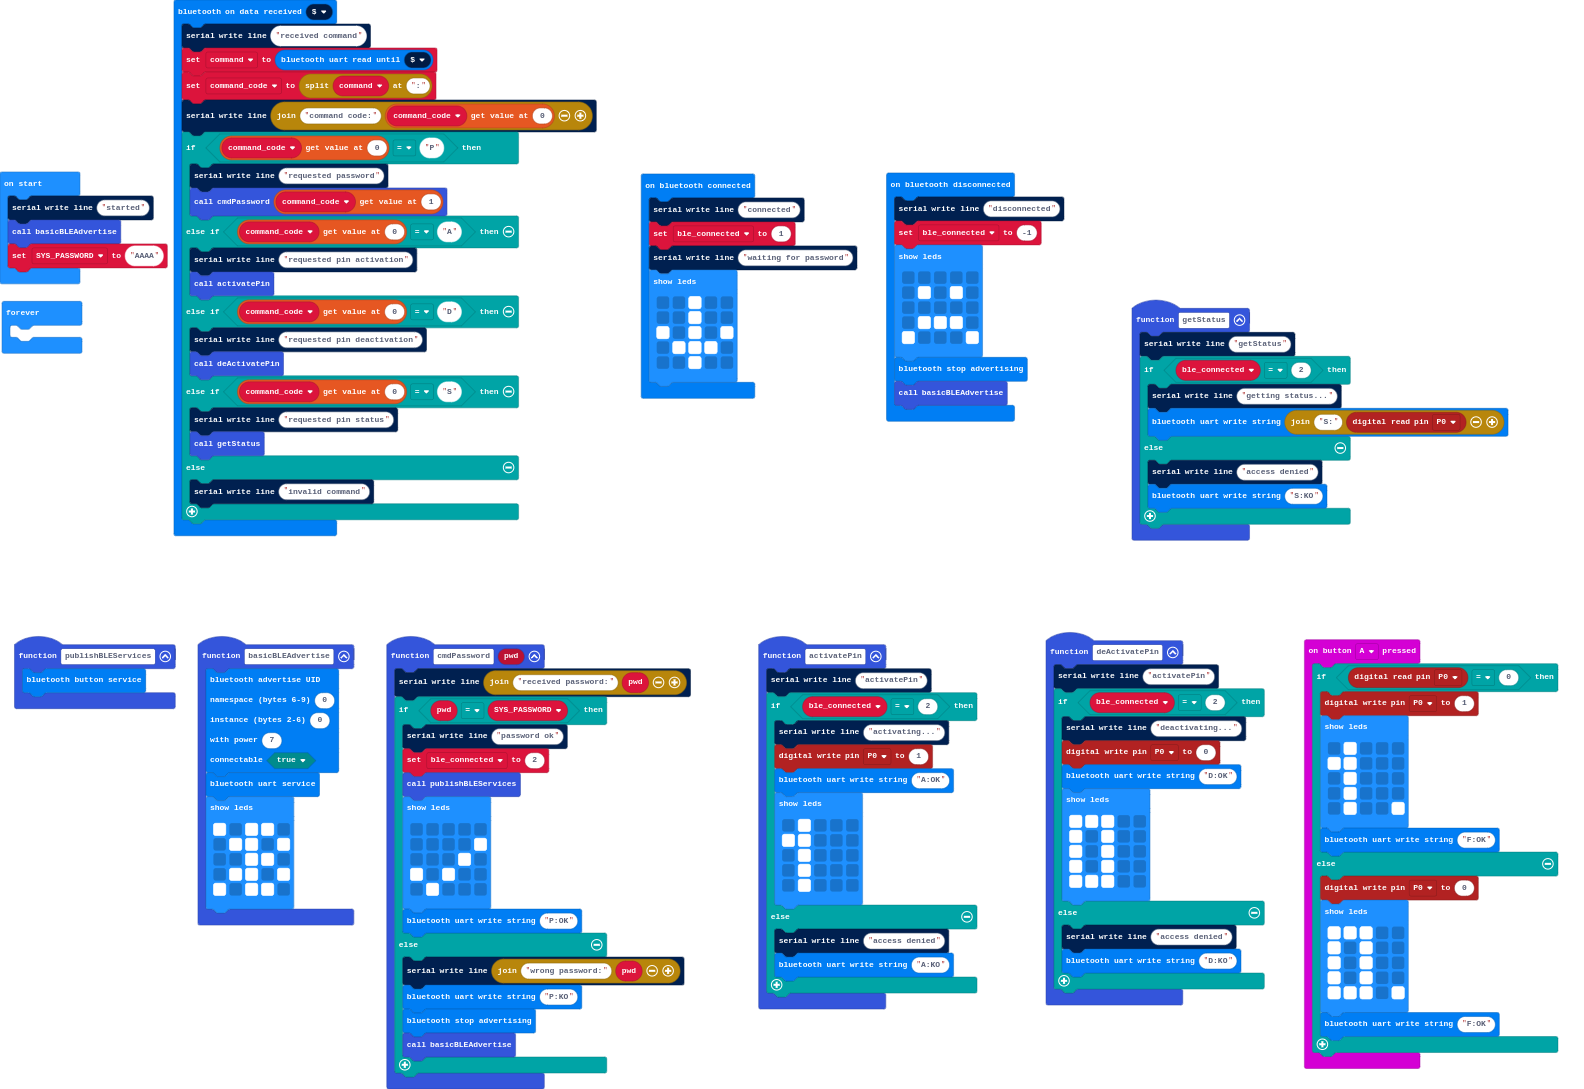
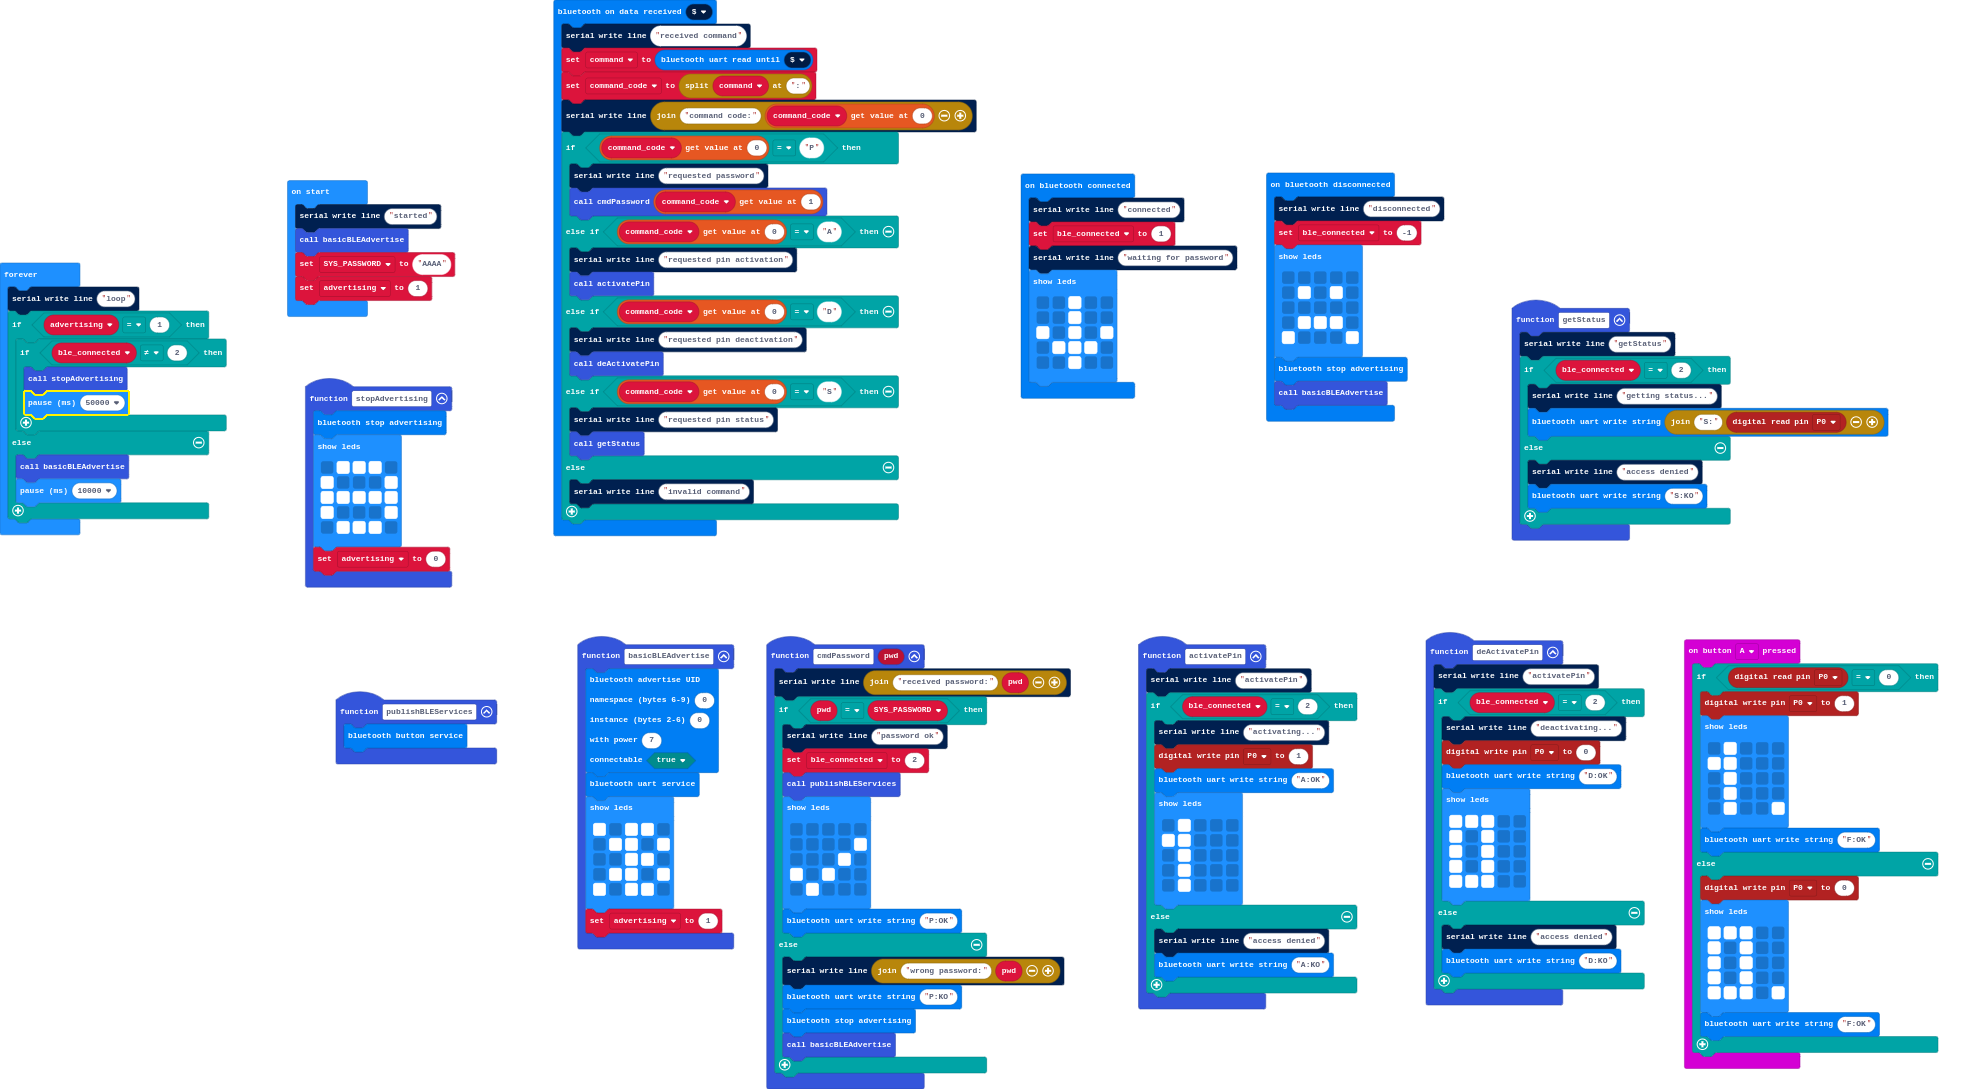
attivazione a tempo

diff --git a/main.ts b/main.ts
@@ -1,3 +1,14 @@
+function stopAdvertising () {
+    bluetooth.stopAdvertising()
+    basic.showLeds(`
+        . # # # .
+        # . . . #
+        # # # # #
+        # . . . #
+        . # # # .
+        `)
+    advertising = 0
+}
 bluetooth.onUartDataReceived(serial.delimiters(Delimiters.Dollar), function () {
     serial.writeLine("received command")
     command = bluetooth.uartReadUntil(serial.delimiters(Delimiters.Dollar))
@@ -85,6 +96,7 @@ function basicBLEAdvertise () {
         . # # . #
         # . # # .
         `)
+    advertising = 1
 }
 function deActivatePin () {
     serial.writeLine("activatePin")
@@ -156,10 +168,21 @@ function getStatus () {
 let ble_connected = 0
 let command_code: string[] = []
 let command = ""
+let advertising = 0
 let SYS_PASSWORD = ""
 serial.writeLine("started")
 basicBLEAdvertise()
 SYS_PASSWORD = "AAAA"
+advertising = 1
 basic.forever(function () {
-	
+    serial.writeLine("loop")
+    if (advertising == 1) {
+        if (ble_connected != 2) {
+            stopAdvertising()
+            basic.pause(50000)
+        }
+    } else {
+        basicBLEAdvertise()
+        basic.pause(10000)
+    }
 })
